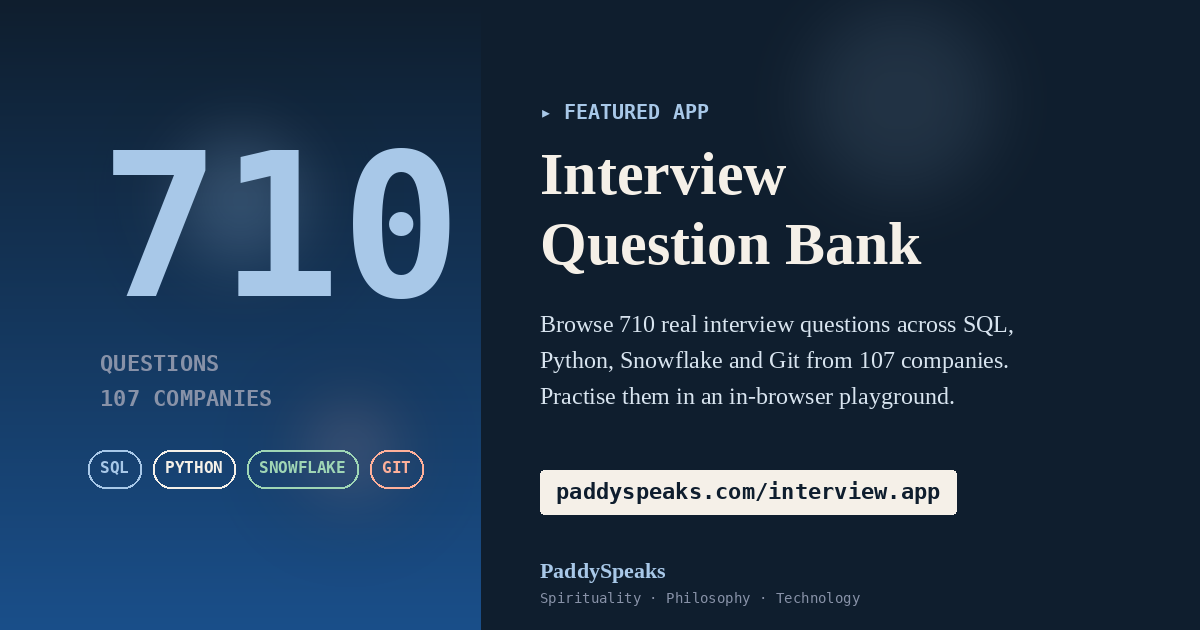
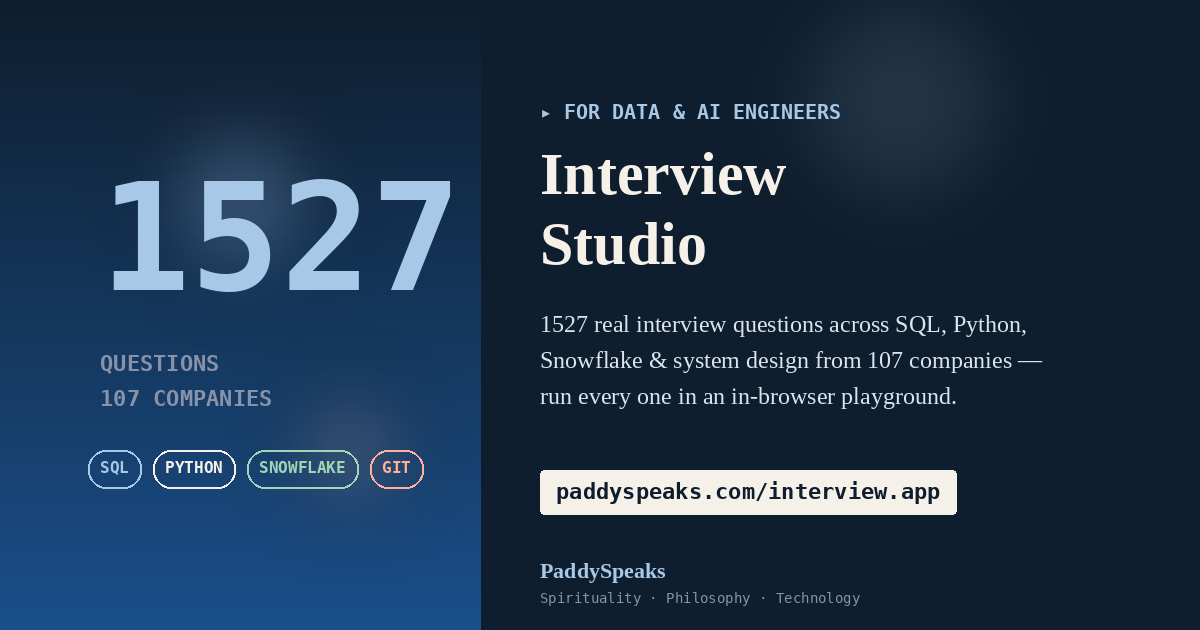
og: rebrand share image to Interview Studio + fix stale count (710 -> 1527)
The social share card still rendered 'Interview Question Bank' and a stale '710'.
Regenerated as 'Interview Studio · FOR DATA & AI ENGINEERS' with the correct
1527 questions / 107 companies, matching the homepage rebrand. og:image:alt was
already updated to match.

Claude-Session: https://claude.ai/code/session_01P4doh5CzaMb43rrfqHq23r

diff --git a/interview/scripts/make_og_image.py b/interview/scripts/make_og_image.py
@@ -1,6 +1,6 @@
 #!/usr/bin/env python3
 """
-Render the OG/Twitter share image for the Interview Question Bank.
+Render the OG/Twitter share image for Interview Studio.
 Output: images/og-interview-bank.png  (1200×630, the spec for OG)
 
 Run from repo root:
@@ -75,9 +75,9 @@ def main():
         img.paste(glow, (cx - rad * 2, cy - rad * 2), glow)
         d = ImageDraw.Draw(img)
 
-    # Left big number "710"
-    f_huge = font("mono", 200, bold=True)
-    d.text((100, 110), "710", fill=LIGHT_BLUE, font=f_huge)
+    # Left big number
+    f_huge = font("mono", 150, bold=True)
+    d.text((100, 150), "1527", fill=LIGHT_BLUE, font=f_huge)
 
     f_label = font("mono", 22, bold=True)
     d.text((100, 350), "QUESTIONS", fill=MUTED, font=f_label)
@@ -101,17 +101,17 @@ def main():
 
     # Right column: headline, paragraph, CTA
     f_eyebrow = font("mono", 20, bold=True)
-    d.text((540, 100), "▸ FEATURED APP", fill=LIGHT_BLUE, font=f_eyebrow)
+    d.text((540, 100), "▸ FOR DATA & AI ENGINEERS", fill=LIGHT_BLUE, font=f_eyebrow)
 
     f_h1 = font("serif", 60, bold=True)
     d.text((540, 140), "Interview", fill=CREAM, font=f_h1)
-    d.text((540, 210), "Question Bank", fill=CREAM, font=f_h1)
+    d.text((540, 210), "Studio", fill=CREAM, font=f_h1)
 
     f_body = font("serif", 24)
     body = [
-        "Browse 710 real interview questions across SQL,",
-        "Python, Snowflake and Git from 107 companies.",
-        "Practise them in an in-browser playground.",
+        "1527 real interview questions across SQL, Python,",
+        "Snowflake & system design from 107 companies —",
+        "run every one in an in-browser playground.",
     ]
     for i, line in enumerate(body):
         d.text((540, 310 + i * 36), line, fill=(216, 228, 239), font=f_body)